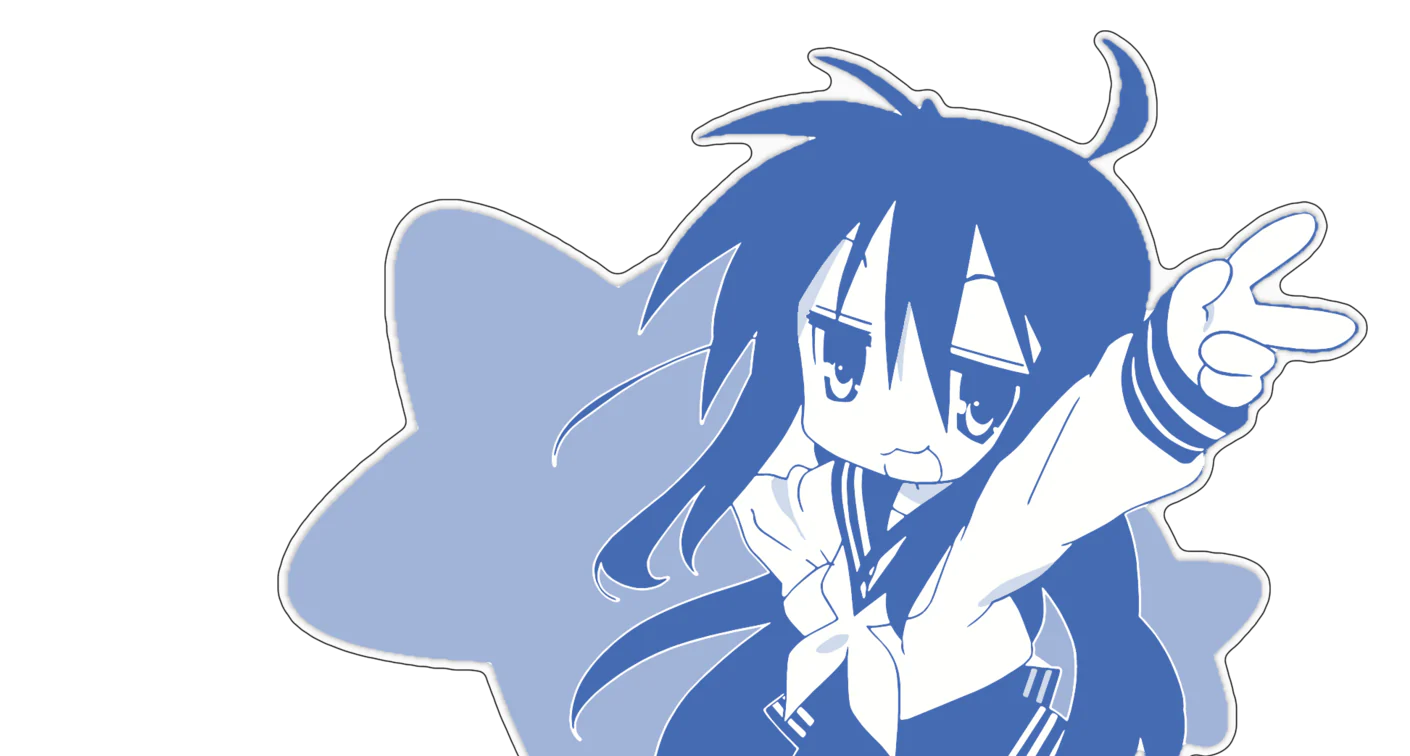
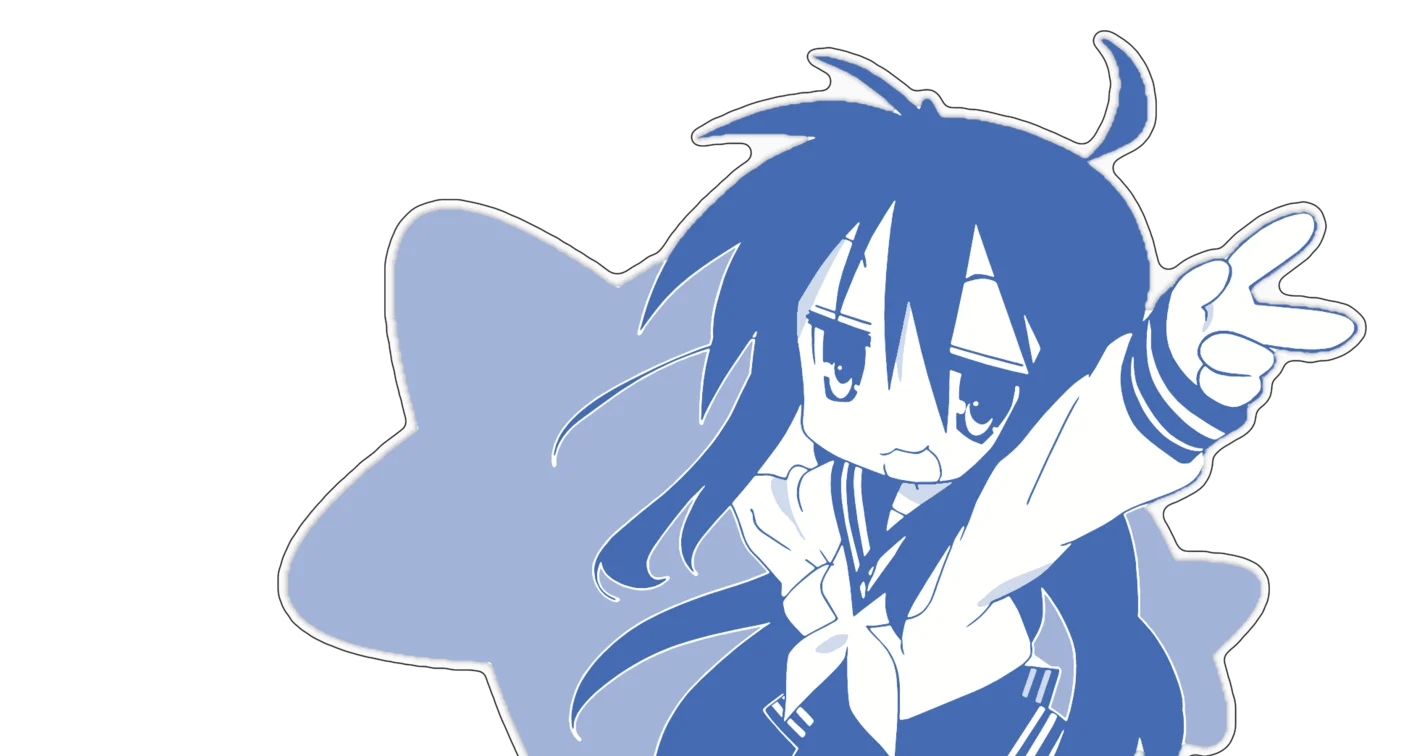
site: bake the landing's stickers at twice the size
The stickers were one 1410x756 file each, so a retina screen stretched
them about 1.9 times and their lines went soft.

Each now has a 2820x1512 file beside it, cut with the same frame, and
the browser picks by srcset: 1x screens keep the small file. Asuka and
Nano are downscaled from their originals. Rei's original falls 14.5%
short of the larger size and Konata's 45%, so both are enlarged, and
Konata, flat colors on a small original, has her edges tightened after.
The figures stay where they were.

Only the first sticker loads with the page. The next one in the cycle
loads as its turn is scheduled, all of them when the pointer reaches the
window, and a pick waits for its sticker to decode, so a phone that
never picks fetches one file: 152 KB against four small ones at 219 KB.

Claude-Session: https://claude.ai/code/session_015CAsVwNxJfW1PbE36YmF8a

diff --git a/site/client/lead-showcase.tsx b/site/client/lead-showcase.tsx
@@ -18,6 +18,16 @@ const PICKS = 'input[name="lead-tab"], input[name="lead-pill"]'
 
 const PHOTO_SIZES = '(min-width: 1180px) 50vw, 86vw'
 
+function wake(sticker: HTMLImageElement) {
+  const { src, srcset } = sticker.dataset
+
+  if (!src || !srcset) return
+  delete sticker.dataset.src
+  delete sticker.dataset.srcset
+  sticker.srcset = srcset
+  sticker.src = src
+}
+
 class LeadShowcase extends HTMLElement {
   #leads: Theme[] = []
   #worn: Theme | null = null
@@ -27,6 +37,7 @@ class LeadShowcase extends HTMLElement {
   #view: IntersectionObserver | null = null
   #wide: MediaQueryList | null = null
   #photoTurn = 0
+  #stickerTurn = 0
   #pointer: [number, number] = [0, 0]
   #frame = 0
   #off = () => {}
@@ -45,7 +56,11 @@ class LeadShowcase extends HTMLElement {
 
   #hidden = () => this.#hold('hidden', document.hidden)
 
-  #enter = () => this.#hold('pointer', true)
+  #enter = () => {
+    this.#hold('pointer', true)
+
+    for (const sticker of this.#stickers) wake(sticker)
+  }
 
   #leave = () => this.#hold('pointer', false)
 
@@ -103,6 +118,10 @@ class LeadShowcase extends HTMLElement {
 
   get #photo(): HTMLElement | null {
     return this.querySelector('[data-lead-photo]')
+  }
+
+  get #stickers(): HTMLImageElement[] {
+    return [...this.querySelectorAll<HTMLImageElement>('[data-lead-sticker]')]
   }
 
   connectedCallback() {
@@ -196,6 +215,10 @@ class LeadShowcase extends HTMLElement {
 
     this.#run?.cancel()
     line.style.opacity = '1'
+    const coming = this.#leads[(this.#at + 1) % this.#leads.length]
+    const sticker = this.#stickers.find((one) => one.dataset.leadSticker === coming?.name)
+
+    if (sticker) wake(sticker)
     const run = line.animate({ scale: ['0 1', '1 1'] }, { duration: CYCLE_MS, easing: 'linear', fill: 'forwards' })
     this.#run = run
     run.finished.then(
@@ -238,11 +261,25 @@ class LeadShowcase extends HTMLElement {
     solid.dataset.turn = solid.dataset.turn === 'a' ? 'b' : 'a'
   }
 
-  #dress(theme: Theme) {
+  #dress(theme: Theme, still: boolean) {
     for (const input of this.querySelectorAll<HTMLInputElement>(PICKS)) input.checked = input.value === theme.name
 
-    for (const sticker of this.querySelectorAll<HTMLElement>('[data-lead-sticker]'))
-      sticker.dataset.on = String(sticker.dataset.leadSticker === theme.name)
+    const stickers = this.#stickers
+    const shown = stickers.find((sticker) => sticker.dataset.leadSticker === theme.name)
+    const turn = ++this.#stickerTurn
+
+    const wear = () => {
+      if (turn !== this.#stickerTurn) return
+
+      for (const sticker of stickers) sticker.dataset.on = String(sticker === shown)
+    }
+
+    if (still) for (const sticker of stickers) sticker.dataset.on = 'false'
+
+    if (shown) {
+      wake(shown)
+      shown.decode().then(wear, wear)
+    } else wear()
 
     this.#frameArt(theme)
   }
@@ -309,7 +346,7 @@ class LeadShowcase extends HTMLElement {
 
     if (before && !still) this.#wipe(before, theme)
     show(theme)
-    this.#dress(theme)
+    this.#dress(theme, still)
     const name = this.querySelector('[data-lead-name] > span')
 
     if (name) name.textContent = theme.name

diff --git a/site/components/lead-stage.tsx b/site/components/lead-stage.tsx
@@ -3,7 +3,7 @@ import { LinkButton } from '@/components/ui/button'
 import { RadioGroup, RadioGroupItem } from '@/components/ui/radio-group'
 import { marketplacePath } from '@/lib/gallery'
 import { Icon } from '@/lib/icons'
-import { CAST } from '@/lib/lead-cast'
+import { CAST, STICKER_SIZES, stickerSet } from '@/lib/lead-cast'
 import { OWN_NAME } from '@/lib/sessions'
 import { type Line, linesOf } from '@/lib/terminal'
 import { BUILTIN, paint, type Theme } from '@/lib/themes'
@@ -40,12 +40,16 @@ export function LeadWorld({ stickers }: { stickers: Record<string, string> }) {
           <img
             data-lead-sticker={member.name}
             data-on={String(at === 0)}
-            src={stickers[member.name]}
+            src={at === 0 ? stickers[member.name] : undefined}
+            srcset={at === 0 ? stickerSet(stickers, member.name) : undefined}
+            data-src={at === 0 ? undefined : stickers[member.name]}
+            data-srcset={at === 0 ? undefined : stickerSet(stickers, member.name)}
+            sizes={STICKER_SIZES}
             alt=""
             width="1410"
             height="756"
             decoding="async"
-            fetchpriority={at === 0 ? 'high' : 'low'}
+            fetchpriority={at === 0 ? 'high' : undefined}
             style={`--face:${member.face.toFixed(4)};--scale:${member.scale.toFixed(4)}`}
           />
         ))}

diff --git a/site/app/site.tsx b/site/app/site.tsx
@@ -30,7 +30,7 @@ import {
 } from '@/lib/gallery'
 import { homeFeatures } from '@/lib/home-features'
 import { artFor, placesFoundFor } from '@/lib/key-art'
-import { castOf } from '@/lib/lead-cast'
+import { castOf, STICKER_SIZES, stickerSet } from '@/lib/lead-cast'
 import { castNamed, foundPage, lookUp, prime } from '@/lib/lookup'
 import { marketplaces } from '@/lib/marketplaces'
 import { menuCovers, menuPlaces, menuWork, releaseUrl } from '@/lib/menu'
@@ -404,7 +404,7 @@ export const site = new Elysia({ name: 'site' })
         wear: lead,
         flat: true,
         head: firstScript(lead),
-        preload: { src: stickers[lead.name] as string, srcset: null, sizes: '' },
+        preload: { src: stickers[lead.name] as string, srcset: stickerSet(stickers, lead.name), sizes: STICKER_SIZES },
       },
       <Home themes={themes} features={features} facts={facts} terminals={assets.terminals} stickers={stickers} />,
     )

diff --git a/site/lib/lead-cast.ts b/site/lib/lead-cast.ts
@@ -13,6 +13,12 @@ export const CAST: readonly CastMember[] = [
   { name: 'shinonome-nano', face: 1086 / 756, scale: 1 },
 ]
 
+export const STICKER_SIZES = '(min-width: 1180px) min(148.4vh, 104.4vw, 1679px), 199vw'
+
+export function stickerSet(stickers: Record<string, string>, name: string): string {
+  return `${stickers[name]} 1410w, ${stickers[`${name}-2x`]} 2820w`
+}
+
 export function castOf(themes: readonly Theme[]): Theme[] {
   return CAST.flatMap((member) => themes.find((theme) => theme.name === member.name) ?? [])
 }
